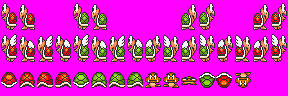
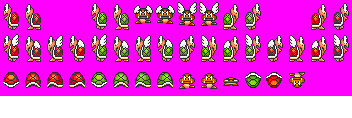
Hoàn tất ParaGoomba

diff --git a/NewSuperMarioBrosPC/MarioGame.cpp b/NewSuperMarioBrosPC/MarioGame.cpp
@@ -85,15 +85,14 @@ void CMarioGame::LoadResources(LPDIRECT3DDEVICE9 d3ddv)
 	piranhaSprite = new CSprite(_SpriteHandler, PIRANHA_PLANT, 20, 36, 100, 10);
 	pipeSprite = new CSprite(_SpriteHandler, PIPE_IMAGE, 32, 32, 1, 1);
 	pipe32x40Sprite = new CSprite(_SpriteHandler, PIPE_IMAGE_40, 32, 40, 1, 1);
-	koopaTroopaSprite = new CSprite(_SpriteHandler, KOOPA_TROOPA_GOOMBA_IMAGE, 18, 32, 48, 16);
-	goobaSprite = new CSprite(_SpriteHandler, KOOPA_TROOPA_GOOMBA_IMAGE, 18, 32, 48, 16);
+	koopaTroopaGoombaSprite = new CSprite(_SpriteHandler, KOOPA_TROOPA_GOOMBA_IMAGE, 22, 32, 48, 16);
 	mushroomSprite = new CSprite(_SpriteHandler, MUSHROOM_IMAGE, 16, 16, 1, 1);
 	greenmushroomSprite = new CSprite(_SpriteHandler, GREEN_MUSHROOM, 16, 16, 1, 1);
 	leafSprite = new CSprite(_SpriteHandler, LEAF, 16, 16, 1, 1);
 	goldBrickAndPButton = new CSprite(_SpriteHandler, GOLDBRICK_IMAGE_AND_BUTTON, 16, 16, 1, 8);
 	coinSprite = new CSprite(_SpriteHandler, COIN, 16, 16, 3, 3);
 	qbSprite = new CSprite(_SpriteHandler, QBRICK_IMAGE, 16, 16, 5, 5);
-	
+	paraGoombaSprite = new CSprite(_SpriteHandler, PARA_GOOMBA, 32, 32, 4, 4);
 
 
 
@@ -134,7 +133,7 @@ void CMarioGame::LoadResources(LPDIRECT3DDEVICE9 d3ddv)
 	//marioObject->setAnimationFactory(LargeMarioAnimationFactory::getInstance(marioObject));
 	//marioObject->setState(new MarioStateLarge(marioObject));
 
-	Gooba* paraGoomba = new Gooba(200, 50, Gooba::WIDTH, Gooba::HEIGHT, Gooba::SPEED_X, 0, Gooba::SPEED_X, 0, 0, NULL, goobaSprite);
+	Gooba* paraGoomba = new Gooba(200, 50, Gooba::WIDTH, Gooba::HEIGHT, Gooba::SPEED_X, 0, Gooba::SPEED_X, 0, 0, NULL, koopaTroopaGoombaSprite);
 	paraGoomba->setState(new GoobaParaState(paraGoomba));
 	
 	mObjectManager->addObject(marioObject);
@@ -468,8 +467,12 @@ void CMarioGame::LoadMap(ObjectManager * obManager, LPD3DXSPRITE _SpriteHandler,
 		else if (v[0] == 10)
 		{
 			
-			Gooba* gooba = new Gooba(v[1], v[2], Gooba::WIDTH, Gooba::HEIGHT, -Gooba::SPEED_X, 0, -Gooba::SPEED_X, 0, 0, NULL, goobaSprite);
+			Gooba* gooba = new Gooba(v[1], v[2], Gooba::WIDTH, Gooba::HEIGHT, -Gooba::SPEED_X, 0, -Gooba::SPEED_X, 0, 0, NULL, koopaTroopaGoombaSprite);
+			if (v[3] == 1){
+				gooba->setState(new GoobaParaState(gooba));
+			}
 			obManager->addObject(gooba);
+			
 		}
 		else if (v[0] == 11)
 		{
@@ -477,20 +480,20 @@ void CMarioGame::LoadMap(ObjectManager * obManager, LPD3DXSPRITE _SpriteHandler,
 			if (v[3] == 1)
 			{
 				KoopaTroopa* koopa =
-					new KoopaTroopa(v[1], v[2], 16, 28, -KoopaTroopa::KOOPA_VELOCITY_X, 0, -KoopaTroopa::KOOPA_VELOCITY_X, 0, 0, NULL, koopaTroopaSprite);
+					new KoopaTroopa(v[1], v[2], 16, 28, -KoopaTroopa::KOOPA_VELOCITY_X, 0, -KoopaTroopa::KOOPA_VELOCITY_X, 0, 0, NULL, koopaTroopaGoombaSprite);
 				koopa->setState(new KoopaNomalState(koopa));
 				obManager->addObject(koopa);
 			}
 			else if (v[3] == 2)
 			{
-				KoopaTroopa* paraKoopa = new KoopaTroopa(v[1], v[2], KoopaTroopa::PARA_SPEED_X, NULL, koopaTroopaSprite);
+				KoopaTroopa* paraKoopa = new KoopaTroopa(v[1], v[2], KoopaTroopa::PARA_SPEED_X, NULL, koopaTroopaGoombaSprite);
 				paraKoopa->setState(new KoopaParaState(paraKoopa));
 				obManager->addObject(paraKoopa);
 			}
 			else if (v[3] == 3)
 			{
 				KoopaTroopa* vulnerableKoopa =
-					new RedKoopa(v[1], v[2], 16, 28, -KoopaTroopa::KOOPA_VELOCITY_X, 0, -KoopaTroopa::KOOPA_VELOCITY_X, 0, 0, NULL, koopaTroopaSprite);
+					new RedKoopa(v[1], v[2], 16, 28, -KoopaTroopa::KOOPA_VELOCITY_X, 0, -KoopaTroopa::KOOPA_VELOCITY_X, 0, 0, NULL, koopaTroopaGoombaSprite);
 				vulnerableKoopa->setState(new KoopaVulnerableState(vulnerableKoopa));
 				obManager->addObject(vulnerableKoopa);
 			}

diff --git a/NewSuperMarioBrosPC/gooba.cpp b/NewSuperMarioBrosPC/gooba.cpp
@@ -12,7 +12,8 @@ using namespace std;
 
 const float Gooba::SPEED_X = 0.08f;
 const float Gooba::SPEED_Y_PLUS = 0.15f;
-const float Gooba::SPEED_Y = 0.05f;
+const float Gooba::FLYING_ACCELERATION = 0.0025f;
+const float Gooba::FLYING_GRAVITY = 0.000019f;
 const int Gooba::WIDTH = 16;
 const int Gooba::HEIGHT = 16;
 const int Gooba::ANIMATION_DELAY = 10;
@@ -46,11 +47,17 @@ void Gooba::render(int vpx, int vpy){
 	mSprite->Render(mAnimationFactory->createAnimation(), x, y, vpx, vpy);
 }
 void Gooba::setState(GoobaState* goobaState){
-	delete mState;
+	//delete mState;
 	mState = goobaState;
 	width = mState->getWidth();
 	height = mState->getHeight();
-	vx = mState->getSpeed();
+	if (vx < 0){
+		vx = -mState->getSpeed();
+	}
+	else{
+		vx = mState->getSpeed();
+	}
+	
 }
 void Gooba::update(int t){
 	mState->update(t);
@@ -214,23 +221,60 @@ string GoobaParaState::getName(){
 }
 
 GoobaParaState::GoobaParaState(Gooba* gooba):GoobaState(gooba){
-
+	mGooba = gooba;
+	mMario = ObjectManager::getInstance()->getMario();
+	mTimeToFly.start();
 }
 void GoobaParaState::update(int t){
+	if (mMario != 0){
+		if (mMario->x < mGooba->x){
+			mGooba->vx = -getSpeed();
+		}
+		else{
+			mGooba->vx = getSpeed();
+		}
+	}
+	else{
+		mMario = ObjectManager::getInstance()->getMario();
+	}
 	mGooba->vy += mGooba->ay*t;
 	mGooba->vx += mGooba->ax*t;
 	
-	mGooba->ay -= CMarioGame::GRAVITY_VELOCOTY*t;
-
+	//mGooba->ay -= CMarioGame::GRAVITY_VELOCOTY*t;
+	mGooba->ay -= Gooba::FLYING_GRAVITY*t;
 	mGooba->dx += (int)(mGooba->vx * t);
 	int temp = (int)mGooba->dx;
 	mGooba->x += temp;
 	mGooba->dx -= temp;
-
+	
 	mGooba->dy += (int)(mGooba->vy*t);
 	temp = (int)mGooba->dy;
 	mGooba->y += temp;
 	mGooba->dy -= temp;
+	
+	int intervalTime = mTimeToFly.getIntervalTime();
+	if ((intervalTime >= 500 && intervalTime< 520) || (intervalTime >1000 && intervalTime< 1020) ){
+		if (mGooba->vy == 0){
+			mGooba->ay = Gooba::FLYING_ACCELERATION / 2;
+			mGooba->isJump = 1;
+		}
+		
+	}
+
+	if (intervalTime >= 1500){
+		
+		if (mGooba->vy == 0){
+			mGooba->ay = Gooba::FLYING_ACCELERATION;
+			mGooba->isFly = 1;
+			
+		}
+		
+	}
+	if (intervalTime >= 2000){
+		mGooba->isFly = 0;
+		mTimeToFly.start();
+	}
+	
 }
 void GoobaParaState::onCollision(Object *ob, int dir){
 	GoobaState::onCollision(ob, dir);
@@ -240,14 +284,26 @@ void GoobaParaState::onCollision(Object *ob, int dir){
 			mGooba->setState(new GoobaNomalState(mGooba));
 		}
 	}
+	if (objName == MarioRaccoonTail::OBJECT_NAME && MarioRaccoonTail::getInstance()->getState() == MarioRaccoonTail::STATE_ACTIVE){
+		mGooba->vy = 0.5f;
+		mGooba->setState(new GoobaDyingUpsideDown(mGooba));
+	}
+
 }
 
 //////////////////////GoobaAnimationFactory//////////////
 Animation* GoobaAnimationFactory::createAnimation(){
 	Animation* result;
 	string stateName = mGooba->getState()->getName();
-	if (stateName == GoobaNomalState::STATE_NAME || stateName == GoobaParaState::STATE_NAME){
+	if (stateName == GoobaNomalState::STATE_NAME ){
 		result = mGoobaWalkingAnim;
+	}
+	else if (stateName == GoobaParaState::STATE_NAME)
+	{
+		if (mGooba->vy>0){
+			result = mParaGoobaFlying;
+		}else 
+			result = mParaGoobaWalking;
 	}
 	else if (stateName == GoobaDyingUpsideDown::STATE_NAME){
 		result = mGoobaDyingUpsideDown;

diff --git a/NewSuperMarioBrosPC/gooba.h b/NewSuperMarioBrosPC/gooba.h
@@ -8,6 +8,7 @@
 #include "Physics.h"
 #include "Pipe.h"
 #include"RedKoopa.h"
+#include "Timer.h"
 
 using namespace std;
 
@@ -22,6 +23,9 @@ public:
 	Animation* mGoobaDyingAnim = new Animation(42, 42);
 	Animation* mGoobaDyingUpsideDown = new Animation(45, 45);
 	Animation* createAnimation()override;
+
+	Animation* mParaGoobaWalking = new Animation(6, 7);
+	Animation* mParaGoobaFlying = new Animation(6, 9, 2);
 	GoobaAnimationFactory(Gooba* gooba);
 };
 
@@ -40,7 +44,7 @@ public:
 
 class GoobaDyingUpsideDown :public GoobaState{
 protected:
-	Gooba* mGooba;
+	//Gooba* mGooba;
 public:
 	static const string STATE_NAME;
 	GoobaDyingUpsideDown(Gooba* gooba);
@@ -71,6 +75,7 @@ public:
 class GoobaParaState:public GoobaState{
 protected:
 	Gooba* mGooba;
+	Mario* mMario;
 public:
 	Timer mTimeToFly;
 	static const int TIME_TO_JUMP;///250
@@ -89,8 +94,11 @@ class Gooba : public Object{
 private:
 	GoobaState* mState;
 public:
+	int isJump = 0;
+	int isFly = 0;
 	static const float SPEED_X;
-	static const float SPEED_Y; //para goomba
+	static const float FLYING_ACCELERATION; //para goomba
+	static const float FLYING_GRAVITY;
 	static const float SPEED_Y_PLUS;
 	static const int WIDTH;//16
 	static const int HEIGHT;//16

diff --git a/NewSuperMarioBrosPC/MarioGame.h b/NewSuperMarioBrosPC/MarioGame.h
@@ -35,6 +35,7 @@
 #define PIRANHA_PLANT L"PiranhaPlant10x20x36.png"
 #define PIPE_IMAGE L"pipe32.png"
 #define PIPE_IMAGE_40 L"Pipe32x40.png"
+#define PARA_GOOMBA L"paraGoomba.png"
 
 
 #define GROUND_Y 45
@@ -76,8 +77,7 @@ public:
 
 	CSprite * marioSmallSprite;
 	CSprite * marioLargeSprite;
-	CSprite * goobaSprite;
-	CSprite * koopaTroopaSprite;
+	CSprite * koopaTroopaGoombaSprite;
 	CSprite * ground_middle;
 	CSprite * brick;
 	CSprite *mountain;
@@ -92,7 +92,7 @@ public:
 	CSprite *pipeSprite;
 	CSprite* piranhaSprite;
 	CSprite * qbSprite;
-	
+	CSprite * paraGoombaSprite;
 
 
 	int animationDelay=0;
